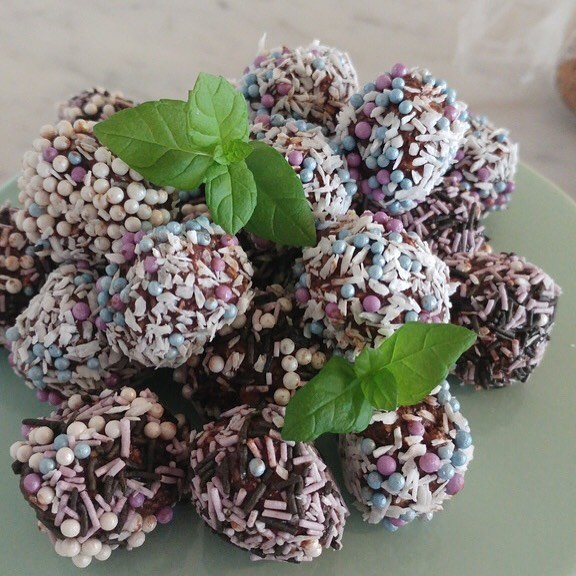
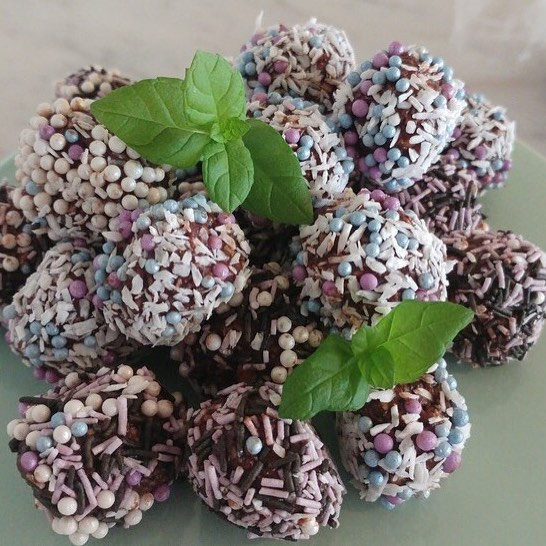
Cropped all the images to 1:1

diff --git a/day5.html b/day5.html
@@ -1,0 +1,56 @@
+<!DOCTYPE html>
+<html>
+  <head>
+    <meta charset="utf-8">
+    <meta name="viewport" content="width=device-width">
+    <title>5 december</title>
+    <link rel="stylesheet" href="./stylesheet.css">
+    <style>
+         body {
+           background: #7b412b;
+           color:#fff;
+         }
+    </style>
+  </head>
+  <body>
+    <div class="container">
+
+    <div class="imgcontainer">
+      <img src="./images/pepparkakspaj.jpg" alt="Pepparkakspaj med mandelmassa och äpplen">
+    </div>
+    <div class="ingredients">
+      <h1>Pepparkakspaj med mandelmassa och äpplen</h1>
+      <ul>
+        <li>6–8 portioner</li>
+        <li>250 g	färdig pepparkaksdeg</li>
+        <li>smör till formen</li>
+        <li><strong>Fyllning:</strong></li>
+        <li>2 st	ägg</li>
+        <li>200 g	mandelmassa, riven</li>
+        <li>1 st	ekologisk citron, det gula av skalet rivet</li>
+        <li>1 tsk	vaniljpulver</li>
+        <li>1 dl	creme fraiche</li>
+        <li>2 st	röda äpplen</li>
+        <li>1 st	liten påse mandelsplitter, 50 g</li>
+        <li>1 msk	råsocker</li>
+        <li>1 dl	lingon, frysta</li>
+        <li>florsocker</li>
+        <li><strong>Till servering:</strong></li>
+        <li>vaniljglass, lättvispad grädde</li>
+      </ul>
+    </div>
+    <div class="description">
+      <h3>Gör så här:</h3>
+      <strong>Börja med pajskalet: </strong><br>
+      Sätt ugnen på 175 grader. Smörj en pajform med låga kanter, ca 25 cm.<br>
+      Kavla ut degen på mjölat underlag och lägg i formen. Garnera kanterna med överskottsdeg om du önskar.<br>
+      Förgrädda skalet 8 minuter på nedersta falsen. Låt svalna. Sätt ugnen på 175 grader.<br>
+  <br>
+      <strong>Gör fyllning: </strong><br>
+      Vispa upp ägg lätt, blanda ner mandelmassa, citronskal, vanilj och crème fraiche. Häll i pajskalet.<br>
+      Skiva äpplen och lägg ner i ett vackert mönster, strö på mandel och socker. Grädda i ugnens nedre del tills fyllningen har stannat och pajen börjar få färg, det tar cirka 40 minuter. Gräddningstiden kan variera i olika ugnar, så håll koll mot slutet. Om pajen börjar bli för mörk innan fyllningen har stannat lägger du på en bit folie tills den är färdig. Låt svalna.<br>
+      Garnera med lingon och florsocker, servera med vaniljglass och lättvispad grädde.
+    </div>
+    </div>
+  </body>
+</html>

diff --git a/day2.html b/day2.html
@@ -1,0 +1,50 @@
+<!DOCTYPE html>
+<html>
+  <head>
+    <meta charset="utf-8">
+    <meta name="viewport" content="width=device-width">
+    <title>2 december</title>
+    <link rel="stylesheet" href="./stylesheet.css">
+    <style>
+         body {
+           background: #7b412b;
+           color:#fff;
+         }
+    </style>
+  </head>
+  <body>
+    <div class="container">
+
+    <div class="imgcontainer">
+      <img src="./images/kanelbullesockerkaka.jpg" alt="Kanelbullesockerkaka">
+    </div>
+    <div class="ingredients">
+      <h1>Kanelbulle&shy;sockerkaka</h1>
+      <ul>
+        <li>Ca 12 bitar</li>
+        <li>2 dl strösocker</li>
+        <li>2 ägg</li>
+        <li>2 tsk vaniljsocker</li>
+        <li>2 tsk bakpulver</li>
+        <li>3 dl vetemjöl</li>
+        <li>100 g smör, smält</li>
+        <li>2 dl mjölk</li>
+        <li>Fyllning</li>
+        <li>2 tsk mald kanel</li>
+        <li>¾ dl strösocker</li>
+      </ul>
+    </div>
+    <div class="description">
+      <h3>Gör så här:</h3>
+      Sätt ugnen på 180 grader. <br>
+      Vispa strösocker och ägg pösigt i en bunke. <br>
+      Blanda vaniljsocker, bakpulver och vetemjöl. <br>
+      Rör ner det i äggblandningen ihop med smör och mjölk. Rör snabbt ihop allt till en slät smet.<br>
+      Blanda ihop kanel och strösocker i en skål.<br>
+      Häll 1/3 av smeten i en smord och sockerkakasform, ca 1 ½ liter. Strö över 1/3 av blandningen i formen.<br>
+      Häll över hälften av smeten som är kvar i bunken. Pudra på hälften av kanel- och sockerblandningen. Häll över den sista smeten och pudra över den sista kanel- och sockerblandningen.<br>
+      Grädda kakan längst ner i ugnen i 43–45 min. Låt den svalna i formen innan du stjälper upp den.
+    </div>
+    </div>
+  </body>
+</html>

diff --git a/day3.html b/day3.html
@@ -1,0 +1,47 @@
+<!DOCTYPE html>
+<html>
+  <head>
+    <meta charset="utf-8">
+    <meta name="viewport" content="width=device-width">
+    <title>3 december</title>
+    <link rel="stylesheet" href="./stylesheet.css">
+    <style>
+         body {
+           background: #7b412b;
+           color:#fff;
+         }
+    </style>
+  </head>
+  <body>
+    <div class="container">
+
+    <div class="imgcontainer">
+      <img src="./images/saffranssockerkaka.jpg" alt="Saffranssockerkaka">
+    </div>
+    <div class="ingredients">
+      <h1>Saffrans&shy;sockerkaka</h1>
+      <ul>
+        <li>Ca 8 bitar</li>
+        <li>matfett till formen</li>
+        <li>ströbröd till formen</li>
+        <li>200 g smör eller margarin</li>
+        <li>1/2 g saffran</li>
+        <li>3 dl strösocker</li>
+        <li>2 ägg</li>
+        <li>1 1/2 dl mjölk</li>
+        <li>4 dl vetemjöl (4 dl motsvarar 240 g)</li>
+        <li>2 tsk bakpulver</li>
+      </ul>
+    </div>
+    <div class="description">
+      <h3>Gör så här:</h3>
+      Sätt ugnen på 175˚C. <br>
+      Smörj och bröa en bakform med löstagbar kant, ca 24 cm i diameter.<br>
+      Smält matfettet.<br>
+      Stöt saffranet i en mortel med 1 msk av sockret. Blanda det med det smälta matfettet.<br>
+      Vispa ägg och resten av sockret poröst. Rör ner matfettet och mjölken. Blanda mjölet med bakpulvret och vänd ner det i smeten.  Häll smeten i formen. <br>
+      Grädda i nedre delen av ugnen 40-45 minuter.<br>
+    </div>
+    </div>
+  </body>
+</html>

diff --git a/day4.html b/day4.html
@@ -1,0 +1,40 @@
+<!DOCTYPE html>
+<html>
+  <head>
+    <meta charset="utf-8">
+    <meta name="viewport" content="width=device-width">
+    <title>4 december</title>
+    <link rel="stylesheet" href="./stylesheet.css">
+    <style>
+         body {
+           background: #7b412b;
+           color:#fff;
+         }
+    </style>
+  </head>
+  <body>
+    <div class="container">
+
+    <div class="imgcontainer">
+      <img src="./images/mjolkchockladbrack.jpg" alt="Mjölkchokladbräck med jordnötter och daim">
+    </div>
+    <div class="ingredients">
+      <h1>Mjölkchokladbräck med jordnötter och daim</h1>
+      <ul>
+        <li> </li>
+        <li>200 g mjölkchoklad</li>
+        <li>1 daim</li>
+        <li>1 dl salta jordnötter</li>
+      </ul>
+    </div>
+    <div class="description">
+      <h3>Gör så här:</h3>
+      Hacka daim och jordnötter. <br>
+      Smält mjölkchokladen över ett vattenbad. <br>
+      Använd en spatel och sprid ut den smälta chokladen på ett bakplåtspapper. <br>
+      Sprinkla över den hackade daimen och jordnötterna. <br>
+      Låt stå kallt i kylskåp tills chokladen stelnat och du kan bryta den till mindre bitar.
+    </div>
+    </div>
+  </body>
+</html>

diff --git a/day6.html b/day6.html
@@ -1,0 +1,40 @@
+<!DOCTYPE html>
+<html>
+  <head>
+    <meta charset="utf-8">
+    <meta name="viewport" content="width=device-width">
+    <title>6 december</title>
+    <link rel="stylesheet" href="./stylesheet.css">
+    <style>
+         body {
+           background: #7b412b;
+           color:#fff;
+         }
+    </style>
+  </head>
+  <body>
+    <div class="container">
+
+    <div class="imgcontainer">
+      <img src="./images/kardemummakolor.jpg" alt="Kardemummakolor">
+    </div>
+    <div class="ingredients">
+      <h1>Kardemummakola</h1>
+      <ul>
+        <li> </li>
+        <li>1 dl matlagningsgrädde</li>
+        <li>1 dl mörk sirap</li>
+        <li>1.5 dl mörkt muscovadoråsocker</li>
+        <li>2 tsk finstött kardemumma</li>
+        <li>2 msk smör</li>
+      </ul>
+    </div>
+    <div class="description">
+      <h3>Gör så här:</h3>
+      Blanda alla ingredienserna i en kastrull och låt koka 5 minuter. Rör om under tiden.<br>
+      Vik en form av bakpapper ca 15x15 cm och placera i en långpanna. Häll i smeten. Låt svalna.<br>
+      Skär eller klipp kolan i bitar. Förvara kallt.
+    </div>
+    </div>
+  </body>
+</html>

diff --git a/day1.html b/day1.html
@@ -19,7 +19,7 @@
       <img src="./images/saffrankolasnittar.jpg" alt="Saffranskolakakor">
     </div>
     <div class="ingredients">
-      <h1>Saffranskolakakor</h1>
+      <h1>Saffranskola&shy;kakor</h1>
       <ul>
         <li>Ca 30 stycken</li>
         <li>1 pkt (1/2 g) saffran</li>
